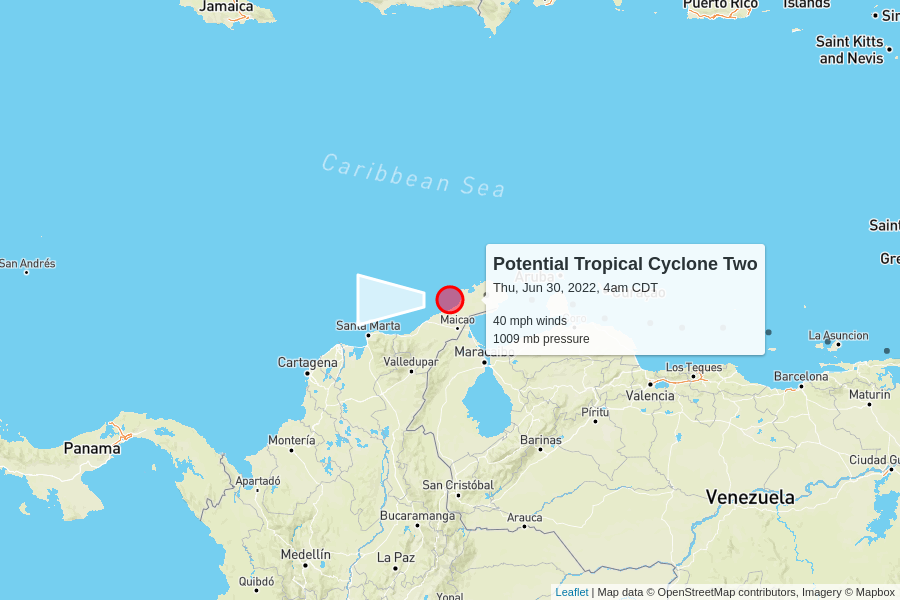
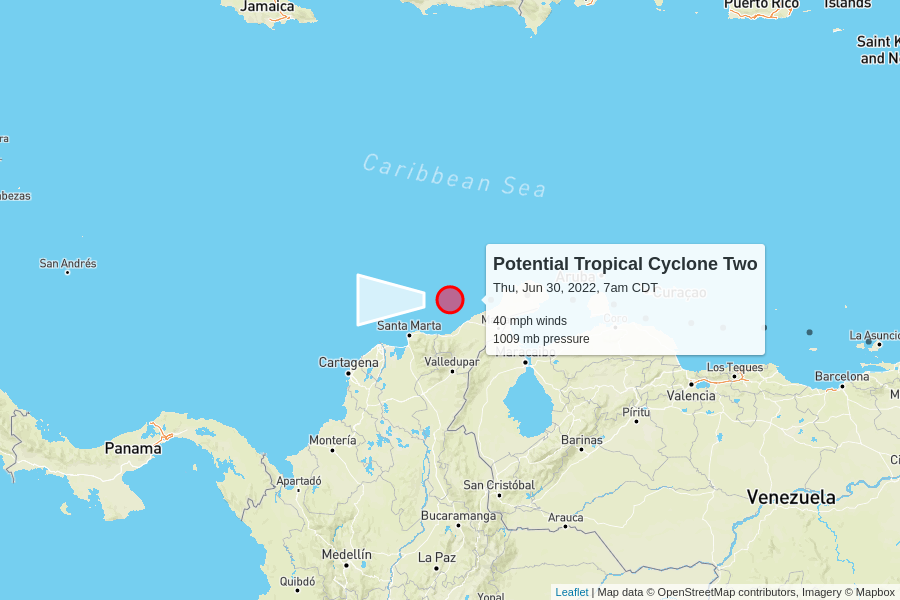
automatic update

diff --git a/docs/index.html b/docs/index.html
@@ -100,7 +100,7 @@
         <td colspan="6" class="storm category-0" >
           <h2>
             Potential Tropical Cyclone Two
-            <p class="updated">last updated <span data-time>2022-06-30T09:00:00.000Z</span></p>
+            <p class="updated">last updated <span data-time>2022-06-30T12:00:00.000Z</span></p>
           </h2>
         </td>
       </tr>
